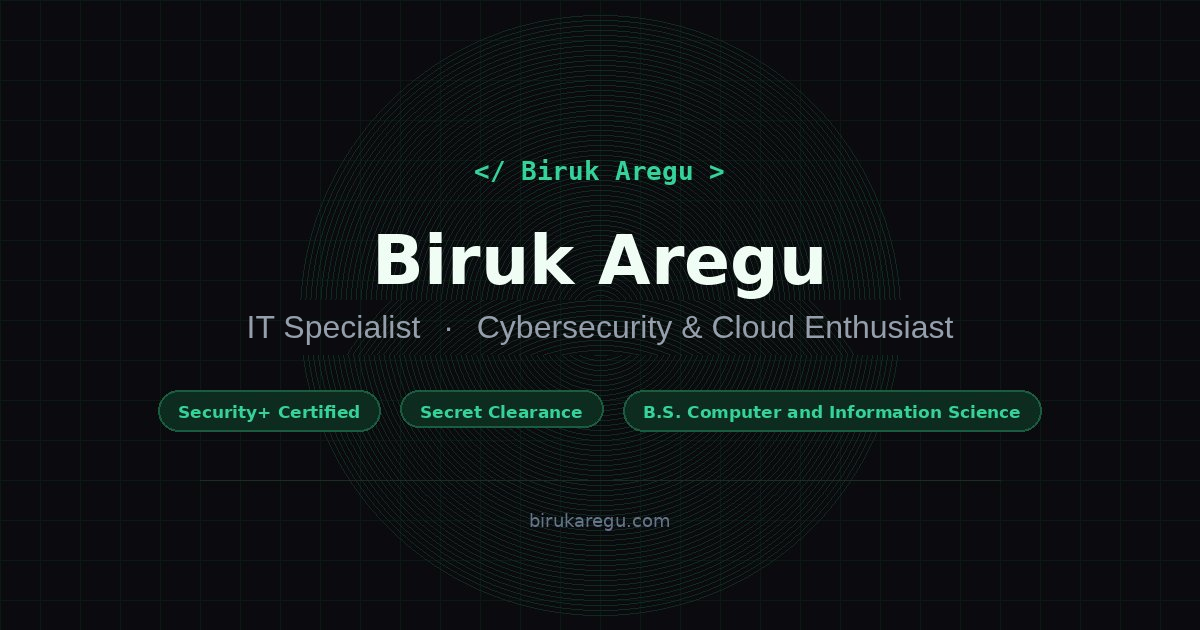
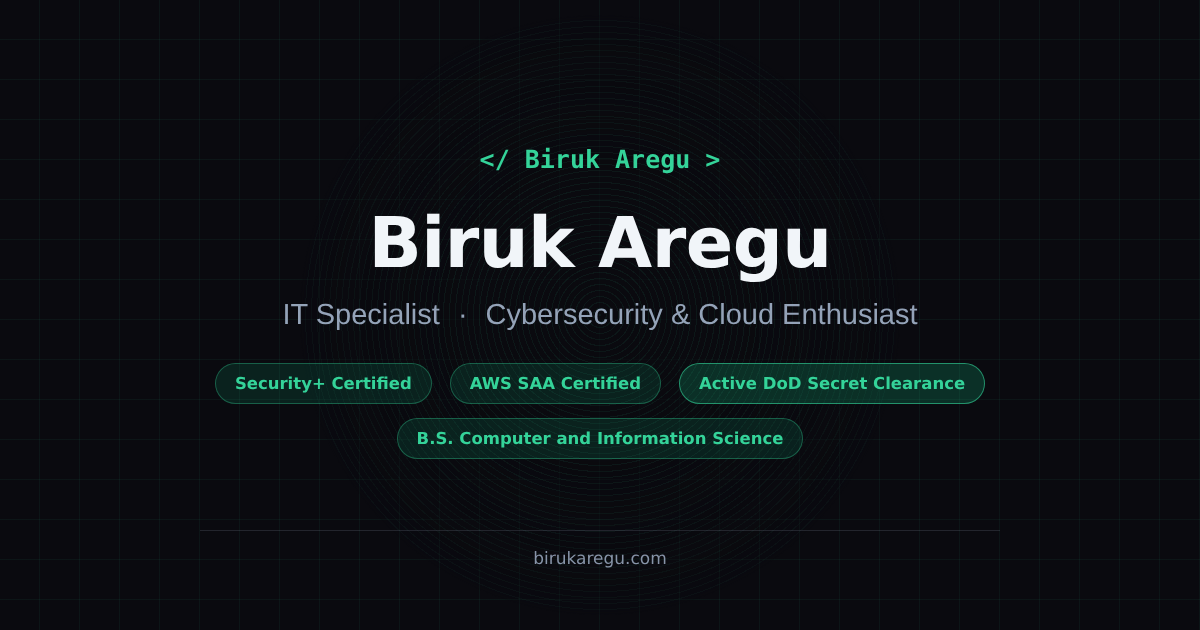
Lighthouse fixes: non-blocking fonts, deferred 3D, main landmark, a11y labels and contrast

diff --git a/index.html b/index.html
@@ -14,20 +14,22 @@
 <meta property="og:url" content="https://www.birukaregu.com/">
 <meta property="og:title" content="Biruk Aregu — IT Professional | Cybersecurity, Cloud & AI Enthusiast">
 <meta property="og:description" content="IT Specialist specializing in Cybersecurity, Cloud Solutions, and IT Support. Security+ and AWS SAA Certified. Explore my projects, skills, and experience.">
-<meta property="og:image" content="https://www.birukaregu.com/og-preview.png">
+<meta property="og:image" content="https://www.birukaregu.com/og-preview.png?v=2">
 <meta property="og:site_name" content="Biruk Aregu Portfolio">
 <!-- Twitter -->
 <meta name="twitter:card" content="summary_large_image">
 <meta name="twitter:title" content="Biruk Aregu — IT Professional | Cybersecurity, Cloud & AI Enthusiast">
 <meta name="twitter:description" content="IT Specialist specializing in Cybersecurity, Cloud Solutions, and IT Support. Security+ and AWS SAA Certified.">
-<meta name="twitter:image" content="https://www.birukaregu.com/og-preview.png">
+<meta name="twitter:image" content="https://www.birukaregu.com/og-preview.png?v=2">
 <!-- Theme Color -->
 <meta name="theme-color" content="#0a0a0f">
 <link rel="icon" type="image/x-icon" href="favicon.ico">
 <link rel="icon" type="image/png" sizes="32x32" href="favicon-32.png">
 <link rel="apple-touch-icon" sizes="180x180" href="favicon-180.png">
 <link rel="preconnect" href="https://fonts.googleapis.com">
-<link href="https://fonts.googleapis.com/css2?family=Inter:wght@300;400;500;600;700&family=JetBrains+Mono:ital,wght@0,400;0,500;0,700;1,400&family=Outfit:wght@300;400;500;600;700;800&display=swap" rel="stylesheet">
+<link rel="preconnect" href="https://fonts.gstatic.com" crossorigin>
+<link rel="preload" as="style" href="https://fonts.googleapis.com/css2?family=Inter:wght@300;400;500;600;700&family=JetBrains+Mono:ital,wght@0,400;0,500;0,700;1,400&family=Outfit:wght@300;400;500;600;700;800&display=swap" onload="this.onload=null;this.rel='stylesheet'">
+<noscript><link rel="stylesheet" href="https://fonts.googleapis.com/css2?family=Inter:wght@300;400;500;600;700&family=JetBrains+Mono:ital,wght@0,400;0,500;0,700;1,400&family=Outfit:wght@300;400;500;600;700;800&display=swap"></noscript>
 <style>
 *,*::before,*::after{margin:0;padding:0;box-sizing:border-box}
 :root{
@@ -66,7 +68,10 @@ html.menu-open .navbar.scrolled{border-bottom-color:transparent}
 .nav-links{display:flex;gap:2rem;align-items:center}
 .nav-links a{font-family:'Inter',sans-serif;font-size:.95rem;color:var(--text-gray-400);transition:color .2s}
 .nav-links a:hover{color:var(--purple-400)}
-.nav-links a.active{color:var(--text-white)}
+.nav-links a{position:relative}
+.nav-links a.active{color:var(--purple-400)}
+.nav-links a::after{content:'';position:absolute;left:50%;bottom:-.45rem;width:4px;height:4px;border-radius:50%;background:var(--purple-400);transform:translateX(-50%) scale(0);transition:transform .25s ease}
+.nav-links a.active::after{transform:translateX(-50%) scale(1)}
 .mobile-toggle{display:none;color:var(--text-gray-300);font-size:2rem;font-weight:700;background:none;border:none;cursor:pointer;width:1.85rem;height:1.85rem;position:relative;padding:0;z-index:170}
 .mobile-toggle span{display:block;position:absolute;height:2.5px;width:100%;background:var(--text-gray-300);border-radius:2px;left:0;transition:transform .3s ease,opacity .3s ease,top .3s ease}
 .mobile-toggle span:nth-child(1){top:20%}
@@ -107,10 +112,10 @@ html.menu-open,html.menu-open body{overflow:hidden!important;height:100%!importa
 .hero-welcome{margin-top:.6rem;font-family:'Inter',sans-serif;font-size:clamp(1.05rem,2.2vw,1.3rem);font-weight:600;color:var(--text-gray-200);max-width:52rem}
 .hero-actions{display:flex;align-items:center;gap:1rem;margin-top:1.2rem;flex-wrap:wrap}
 .hero-btn{display:inline-flex;align-items:center;gap:.5rem;padding:.75rem 1.8rem;border-radius:.5rem;font-size:.95rem;font-weight:600;text-decoration:none;transition:all .3s ease;font-family:'Inter',sans-serif;cursor:pointer;border:none}
-.hero-btn-primary{background:var(--purple-500);color:#fff;box-shadow:0 4px 20px rgba(16,185,129,.3)}
+.hero-btn-primary{background:var(--purple-500);color:#04130d;box-shadow:0 4px 20px rgba(16,185,129,.3)}
 .hero-btn-primary:hover{background:var(--purple-600);box-shadow:0 6px 30px rgba(16,185,129,.45);transform:translateY(-2px)}
-.hero-btn-outline{background:transparent;color:#fff;border:2px solid rgba(255,255,255,.6)}
-.hero-btn-outline:hover{border-color:#fff;background:rgba(255,255,255,.08);transform:translateY(-2px)}
+.hero-btn-outline{background:transparent;color:#fff;border:2px solid rgba(52,211,153,.55)}
+.hero-btn-outline:hover{border-color:var(--purple-400);background:rgba(52,211,153,.08);transform:translateY(-2px)}
 .hero-socials{display:flex;align-items:center;gap:.8rem;margin-top:.8rem}
 .hero-social-link{width:2.4rem;height:2.4rem;display:flex;align-items:center;justify-content:center;color:var(--text-gray-400);transition:all .3s;text-decoration:none}
 .hero-social-link:hover{transform:translateY(-2px)}
@@ -578,7 +583,7 @@ html.lenis,html.lenis body{height:auto}
 .contact-social-icon.cs-github{color:#e6edf3}
 .contact-social-icon.cs-github:hover{color:#fff}
 .contact-compact-row{display:flex;align-items:center;gap:1rem}
-.contact-compact-info h4{font-size:.95rem;font-weight:700;color:var(--text-white);margin-bottom:.15rem}
+.contact-compact-info h3,.contact-compact-info h4{font-size:.95rem;font-weight:700;color:var(--text-white);margin-bottom:.15rem}
 .contact-compact-info p{font-size:.85rem;color:var(--text-gray-300)}
 .schedule-btn{width:100%;display:flex;align-items:center;justify-content:center;gap:.5rem;padding:.85rem;border-radius:.5rem;background:rgba(52,211,153,.08);border:1px solid rgba(52,211,153,.25);color:var(--purple-400);font-size:.9rem;font-weight:600;cursor:pointer;transition:background .3s,border-color .3s,box-shadow .3s;font-family:inherit;text-decoration:none}
 .schedule-btn:hover{background:rgba(52,211,153,.15);border-color:rgba(52,211,153,.5);box-shadow:0 0 20px rgba(16,185,129,.12)}
@@ -1076,7 +1081,7 @@ html.menu-open .nav-brand{position:relative;z-index:170}
   "@type":"Person",
   "name":"Biruk Aregu",
   "url":"https://www.birukaregu.com",
-  "image":"https://www.birukaregu.com/og-preview.png",
+  "image":"https://www.birukaregu.com/og-preview.png?v=2",
   "jobTitle":"IT Specialist",
   "worksFor":{"@type":"Organization","name":"Independence Blue Cross"},
   "alumniOf":[
@@ -1143,6 +1148,7 @@ html.menu-open .nav-brand{position:relative;z-index:170}
 
 <nav class="navbar" id="navbar"><div class="nav-inner"><a href="#" class="nav-brand"><span class="bracket">&lt;/</span><span class="name" data-i18n="brand-name">Biruk Aregu</span><span class="bracket">&gt;</span></a><div class="nav-links"><a href="#about" data-i18n="nav-about">About</a><a href="#work" data-i18n="nav-work">Work</a><a href="#projects" data-i18n="nav-projects">Projects</a><a href="#certifications" data-i18n="nav-cert">Certifications</a><a href="#skills" data-i18n="nav-skills">Skills</a><a href="#education" data-i18n="nav-edu">Education</a><a href="#testimonials" data-i18n="nav-test">Testimonials</a><a href="#contact" data-i18n="nav-contact">Contact</a><button class="lang-switch" id="langToggle" aria-label="Switch language" onclick="toggleLang()"><svg class="lang-icon" viewBox="0 0 24 24" fill="none" stroke="currentColor" stroke-width="2"><circle cx="12" cy="12" r="10"/><line x1="2" y1="12" x2="22" y2="12"/><path d="M12 2a15.3 15.3 0 0 1 4 10 15.3 15.3 0 0 1-4 10 15.3 15.3 0 0 1-4-10 15.3 15.3 0 0 1 4-10z"/></svg><span class="lang-label" id="langLabel">አማ</span></button></div><button class="mobile-toggle" id="menuToggle" aria-label="Toggle menu"><span></span><span></span><span></span></button></div><div class="mobile-menu" id="mobileMenu"><div class="mm-links"><a href="#about" data-i18n="nav-about">About</a><a href="#work" data-i18n="nav-work">Work</a><a href="#projects" data-i18n="nav-projects">Projects</a><a href="#certifications" data-i18n="nav-cert">Certifications</a><a href="#skills" data-i18n="nav-skills">Skills</a><a href="#education" data-i18n="nav-edu">Education</a><a href="#testimonials" data-i18n="nav-test">Testimonials</a><a href="#contact" data-i18n="nav-contact">Contact</a></div><div class="mm-foot"><div class="mm-socials"><a href="https://www.linkedin.com/in/biruk-aregu" target="_blank" rel="noopener" class="mm-social linkedin" title="LinkedIn" aria-label="LinkedIn"><svg class="ic"><use href="#i-linkedin"/></svg></a><a href="https://github.com/TechPro369" target="_blank" rel="noopener" class="mm-social github" title="GitHub" aria-label="GitHub"><svg class="ic"><use href="#i-github"/></svg></a><a href="https://x.com/" target="_blank" rel="noopener" class="mm-social x-twitter" title="X" aria-label="X Twitter"><svg class="ic"><use href="#i-x"/></svg></a><a href="https://instagram.com/" target="_blank" rel="noopener" class="mm-social instagram" title="Instagram" aria-label="Instagram"><svg class="ic"><use href="#i-instagram"/></svg></a></div><div class="mm-ctas"><a href="#" class="mm-cta mm-cta-primary" data-i18n="hero-resume" onclick="document.getElementById('resumeOverlay').classList.add('open');setTimeout(function(){document.body.style.overflow='hidden'},0);return false">View Resume</a><button class="lang-switch" aria-label="Switch language" onclick="toggleLang()"><svg class="lang-icon" viewBox="0 0 24 24" fill="none" stroke="currentColor" stroke-width="2"><circle cx="12" cy="12" r="10"/><line x1="2" y1="12" x2="22" y2="12"/><path d="M12 2a15.3 15.3 0 0 1 4 10 15.3 15.3 0 0 1-4 10 15.3 15.3 0 0 1-4-10 15.3 15.3 0 0 1 4-10z"/></svg><span class="lang-label">አማ</span></button></div></div></div><div class="mobile-overlay" id="mobileOverlay"></div></nav>
 
+<main id="main">
 <section class="hero" id="hero"><canvas id="waveCanvas" aria-hidden="true"></canvas><div class="hero-content"><div class="hero-accent"><div class="bar"></div><h1><span data-i18n="hero-hi">Hi, I'm</span> <span class="purple" data-i18n="hero-name">Biruk</span> <span data-i18n="hero-neny"></span><span class="wave-emoji">👋</span></h1></div><div class="hero-sub"><p class="hero-role"><span data-i18n="hero-im">I'm</span> <span class="typed" id="typedText"></span><span class="cursor">|</span></p><div class="hero-badges"><span class="hero-badge"><svg class="ic"><use href="#i-award"/></svg>Security+</span><span class="hero-badge"><svg class="ic"><use href="#i-cloud"/></svg>AWS SAA</span><span class="hero-badge hero-badge-key"><svg class="ic"><use href="#i-lock"/></svg>Active DoD Secret Clearance</span></div><p class="hero-welcome" data-i18n="hero-welcome">Cybersecurity · Cloud · AI — passionate about tech and problem-solving.</p><div class="hero-actions"><a href="#contact" class="hero-btn hero-btn-primary" data-i18n="hero-connect">Let's Connect</a><a href="#" onclick="document.getElementById('resumeOverlay').classList.add('open');document.body.style.overflow='hidden';return false" class="hero-btn hero-btn-outline" data-i18n="hero-resume">View Resume</a></div><div class="hero-socials"><a href="https://www.linkedin.com/in/biruk-aregu" target="_blank" rel="noopener" class="hero-social-link linkedin" title="LinkedIn" aria-label="LinkedIn"><svg class="ic"><use href="#i-linkedin"/></svg></a><a href="https://github.com/TechPro369" target="_blank" rel="noopener" class="hero-social-link github" title="GitHub" aria-label="GitHub"><svg class="ic"><use href="#i-github"/></svg></a><a href="https://x.com/" target="_blank" rel="noopener" class="hero-social-link x-twitter" title="X" aria-label="X Twitter"><svg class="ic"><use href="#i-x"/></svg></a><a href="https://instagram.com/" target="_blank" rel="noopener" class="hero-social-link instagram" title="Instagram" aria-label="Instagram"><svg class="ic"><use href="#i-instagram"/></svg></a></div></div></div><div class="desk-scene-wrap" id="deskScene"><div class="desk-loader" id="deskLoader"><div class="desk-loader-label">Loading</div><div class="desk-loader-pct" id="deskLoaderPct">0%</div><div class="desk-loader-bar"><div class="desk-loader-fill" id="deskLoaderFill"></div></div></div></div></section>
 
 <!-- ABOUT -->
@@ -1350,11 +1356,11 @@ html.menu-open .nav-brand{position:relative;z-index:170}
 
 <section class="section contact-bg" id="contact"><div class="contact-ripple-bg"><div class="ripple r1"></div><div class="ripple r2"></div><div class="ripple r3"></div><div class="ripple r4"></div></div><div class="section-inner"><div class="section-header"><h2 class="section-title" data-i18n="contact-title">Get In Touch</h2></div><p class="contact-text" data-i18n="contact-text">I'm always interested in hearing about new opportunities and collaborations. Feel free to reach out!</p><div class="contact-grid"><div class="contact-info-cards slide-left">
 <!-- Email Card -->
-<div class="contact-info-card glass-card card-hover fade-up"><div class="contact-card-title" data-i18n="contact-email">Email</div><div class="contact-email-row"><div class="contact-circle-icon"><svg class="ic"><use href="#i-mail"/></svg></div><span class="contact-email-text"><a href="mailto:aregubq@gmail.com">aregubq@gmail.com</a></span><button class="copy-btn" onclick="(function(btn){var t=document.createElement('textarea');t.value='aregubq@gmail.com';t.style.position='fixed';t.style.left='-9999px';document.body.appendChild(t);t.select();try{document.execCommand('copy')}catch(e){}document.body.removeChild(t);if(navigator.clipboard)navigator.clipboard.writeText('aregubq@gmail.com');btn.innerHTML='<svg class=\'ic\' style=\'color:var(--purple-400)\'><use href=\'#i-check\'/></svg>';setTimeout(function(){btn.innerHTML='<svg class=\'ic\'><use href=\'#i-copy\'/></svg>'},1500)})(this)" title="Copy email"><svg class="ic"><use href="#i-copy"/></svg></button></div><div class="contact-socials"><a href="https://www.linkedin.com/in/biruk-aregu" target="_blank" rel="noopener" class="contact-social-icon cs-linkedin"><svg class="ic"><use href="#i-linkedin"/></svg></a><a href="https://github.com/TechPro369" target="_blank" rel="noopener" class="contact-social-icon cs-github"><svg class="ic"><use href="#i-github"/></svg></a></div></div>
+<div class="contact-info-card glass-card card-hover fade-up"><div class="contact-card-title" data-i18n="contact-email">Email</div><div class="contact-email-row"><div class="contact-circle-icon"><svg class="ic"><use href="#i-mail"/></svg></div><span class="contact-email-text"><a href="mailto:aregubq@gmail.com">aregubq@gmail.com</a></span><button class="copy-btn" onclick="(function(btn){var t=document.createElement('textarea');t.value='aregubq@gmail.com';t.style.position='fixed';t.style.left='-9999px';document.body.appendChild(t);t.select();try{document.execCommand('copy')}catch(e){}document.body.removeChild(t);if(navigator.clipboard)navigator.clipboard.writeText('aregubq@gmail.com');btn.innerHTML='<svg class=\'ic\' style=\'color:var(--purple-400)\'><use href=\'#i-check\'/></svg>';setTimeout(function(){btn.innerHTML='<svg class=\'ic\'><use href=\'#i-copy\'/></svg>'},1500)})(this)" title="Copy email"><svg class="ic"><use href="#i-copy"/></svg></button></div><div class="contact-socials"><a href="https://www.linkedin.com/in/biruk-aregu" target="_blank" rel="noopener" class="contact-social-icon cs-linkedin" aria-label="LinkedIn"><svg class="ic"><use href="#i-linkedin"/></svg></a><a href="https://github.com/TechPro369" target="_blank" rel="noopener" class="contact-social-icon cs-github" aria-label="GitHub"><svg class="ic"><use href="#i-github"/></svg></a></div></div>
 <!-- Phone Card -->
-<div class="contact-info-card glass-card card-hover fade-up"><div class="contact-compact-row"><div class="contact-circle-icon"><svg class="ic"><use href="#i-phone"/></svg></div><div class="contact-compact-info"><h4 data-i18n="contact-phone">Phone</h4><p data-i18n="contact-phone-v">Available upon request</p></div></div></div>
+<div class="contact-info-card glass-card card-hover fade-up"><div class="contact-compact-row"><div class="contact-circle-icon"><svg class="ic"><use href="#i-phone"/></svg></div><div class="contact-compact-info"><h3 data-i18n="contact-phone">Phone</h3><p data-i18n="contact-phone-v">Available upon request</p></div></div></div>
 <!-- Location Card -->
-<div class="contact-info-card glass-card card-hover fade-up"><div class="contact-compact-row"><div class="contact-circle-icon"><svg class="ic"><use href="#i-pin"/></svg></div><div class="contact-compact-info"><h4 data-i18n="contact-loc">Location</h4><p data-i18n="contact-loc-v">Philadelphia, PA</p></div></div></div>
+<div class="contact-info-card glass-card card-hover fade-up"><div class="contact-compact-row"><div class="contact-circle-icon"><svg class="ic"><use href="#i-pin"/></svg></div><div class="contact-compact-info"><h3 data-i18n="contact-loc">Location</h3><p data-i18n="contact-loc-v">Philadelphia, PA</p></div></div></div>
 <!-- Schedule Button -->
 <a href="https://calendly.com/aregubq" target="_blank" rel="noopener" class="schedule-btn fade-up"><svg class="ic"><use href="#i-cal"/></svg> <span data-i18n="contact-schedule">Schedule a Meeting</span></a>
 </div>
@@ -4394,10 +4400,11 @@ document.addEventListener('keydown', e => {
 <!-- Back to Top -->
 <button class="back-top" id="backTop" aria-label="Back to top"><svg class="ic"><use href="#i-arrowup"/></svg></button>
 
+</main>
 <footer class="footer"><div class="footer-inner"><div class="footer-brand"><span class="bracket">&lt;/</span><span class="name" data-i18n="brand-name">Biruk Aregu</span><span class="bracket">&gt;</span></div><p class="footer-copy" data-i18n="footer-built">Built with <svg class="ic"><use href="#i-heart"/></svg> by Biruk Aregu</p><div class="footer-social"><a href="https://github.com/TechPro369" target="_blank" rel="noopener" class="fs-github" aria-label="GitHub"><svg class="ic"><use href="#i-github"/></svg></a><a href="https://www.linkedin.com/in/biruk-aregu" target="_blank" rel="noopener" class="fs-linkedin" aria-label="LinkedIn"><svg class="ic"><use href="#i-linkedin"/></svg></a><a href="mailto:aregubq@gmail.com" class="fs-mail" aria-label="Email"><svg class="ic"><use href="#i-mail"/></svg></a><a href="https://instagram.com/" target="_blank" rel="noopener" class="fs-instagram" aria-label="Instagram"><svg class="ic"><use href="#i-instagram"/></svg></a></div></div></footer>
 
 <!-- Keyboard shortcut overlay -->
-<div class="kbd-overlay" id="kbdOverlay" role="dialog" aria-modal="true" aria-labelledby="kbdTitle" aria-hidden="true">
+<div class="kbd-overlay" id="kbdOverlay" role="dialog" aria-modal="true" aria-labelledby="kbdTitle" aria-hidden="true" inert>
 <div class="kbd-modal">
 <div class="kbd-header"><h3 id="kbdTitle" data-i18n="kbd-title">Keyboard Shortcuts</h3><button class="kbd-close" id="kbdClose" aria-label="Close shortcuts">✕</button></div>
 <div class="kbd-groups">
@@ -4617,7 +4624,7 @@ Array.from(document.querySelectorAll('.impact-num')).forEach(function(el){countO
 var btt=document.getElementById('backTop');
 var eeFloat=document.getElementById('eeFloatBtn');
 var navSections=['about','education','work','certifications','skills','projects','testimonials','contact'];
-function updateActiveNav(){var mid=window.scrollY+window.innerHeight/3,cur='';for(var i=0;i<navSections.length;i++){var el=document.getElementById(navSections[i]);if(el&&el.offsetTop<=mid)cur=navSections[i]}document.querySelectorAll('.nav-links a').forEach(function(a){var h=a.getAttribute('href');if(h&&h==='#'+cur)a.classList.add('active');else a.classList.remove('active')})}
+function updateActiveNav(){var mid=window.scrollY+window.innerHeight/3,cur='',best=-1;for(var i=0;i<navSections.length;i++){var el=document.getElementById(navSections[i]);if(el){var t=el.getBoundingClientRect().top+window.scrollY;if(t<=mid&&t>best){best=t;cur=navSections[i]}}}document.querySelectorAll('.nav-links a').forEach(function(a){var h=a.getAttribute('href');if(h&&h==='#'+cur)a.classList.add('active');else a.classList.remove('active')})}
 window.addEventListener('scroll',function(){var s=window.scrollY;btt.classList.toggle('show',s>500);eeFloat.classList.toggle('show',s>500);updateActiveNav()},{passive:true});
 updateActiveNav();
 btt.addEventListener('click',function(){window.scrollTo({top:0,behavior:'smooth'})});
@@ -4789,7 +4796,7 @@ var sc=new THREE.Scene();sc.fog=new THREE.Fog(0x020a06,30,60);
 var isMob=w<769;
 if(isMob){sc.fog=new THREE.Fog(0x0e0e13,12.5,19)}
 var cam=new THREE.PerspectiveCamera(32,w/h,.1,100);cam.position.set(0,3.8,10.5);cam.lookAt(0,isMob?-.95:-.5,0);
-var ren=new THREE.WebGLRenderer({antialias:true,alpha:true});ren.setClearColor(0x000000,0);ren.setSize(w,h);ren.setPixelRatio(Math.min(window.devicePixelRatio,3));
+var ren=new THREE.WebGLRenderer({antialias:true,alpha:true});ren.setClearColor(0x000000,0);ren.setSize(w,h);ren.setPixelRatio(Math.min(window.devicePixelRatio,isMob?2:3));
 ren.shadowMap.enabled=true;ren.shadowMap.type=THREE.PCFSoftShadowMap;
 ren.toneMapping=THREE.NoToneMapping;ren.toneMappingExposure=1.0;
 ct.appendChild(ren.domElement);
@@ -5130,7 +5137,8 @@ ren.render(sc,cam);
 var lastW=ct.clientWidth;if(w>=769){window.addEventListener('resize',function(){var nw=ct.clientWidth,nh=ct.clientHeight;if(nw>0&&nh>0&&nw!==lastW){lastW=nw;cam.aspect=nw/nh;cam.updateProjectionMatrix();ren.setSize(nw,nh)}});}
 }catch(e){console.warn('3D scene error:',e);var ct=document.getElementById('deskScene');ct.style.display='flex';ct.style.alignItems='center';ct.style.justifyContent='center';ct.innerHTML='<div style="text-align:center;color:#64748b"><div style="font-size:4rem;margin-bottom:1rem">🖥</div><p>3D Desk Scene</p><small style="opacity:.6">Interactive 3D scene requires Three.js CDN access</small></div>'}
 }
-if(document.readyState==='loading'){document.addEventListener('DOMContentLoaded',initDeskScene);}else{initDeskScene();}
+function startDesk(){var go=function(){initDeskScene()};if('requestIdleCallback' in window){requestIdleCallback(go,{timeout:1200})}else{setTimeout(go,200)}}
+if(document.readyState==='complete'){startDesk()}else{window.addEventListener('load',startDesk)}
 })();
 
 // Resume modal
@@ -6419,8 +6427,8 @@ var overlay=document.getElementById('kbdOverlay');
 if(!overlay)return;
 var closeBtn=document.getElementById('kbdClose');
 var gPrefix=false,gTimer=null;
-function openOverlay(){overlay.classList.add('open');overlay.setAttribute('aria-hidden','false');document.body.style.overflow='hidden'}
-function closeOverlay(){overlay.classList.remove('open');overlay.setAttribute('aria-hidden','true');document.body.style.overflow=''}
+function openOverlay(){overlay.classList.add('open');overlay.removeAttribute('inert');overlay.setAttribute('aria-hidden','false');document.body.style.overflow='hidden'}
+function closeOverlay(){overlay.classList.remove('open');overlay.setAttribute('inert','');overlay.setAttribute('aria-hidden','true');document.body.style.overflow=''}
 function isTyping(e){var t=e.target;if(!t)return false;var tag=(t.tagName||'').toLowerCase();return tag==='input'||tag==='textarea'||tag==='select'||t.isContentEditable}
 function scrollToId(id){var el=document.getElementById(id);if(el)el.scrollIntoView({behavior:'smooth',block:'start'})}
 function resetG(){gPrefix=false;if(gTimer){clearTimeout(gTimer);gTimer=null}}
